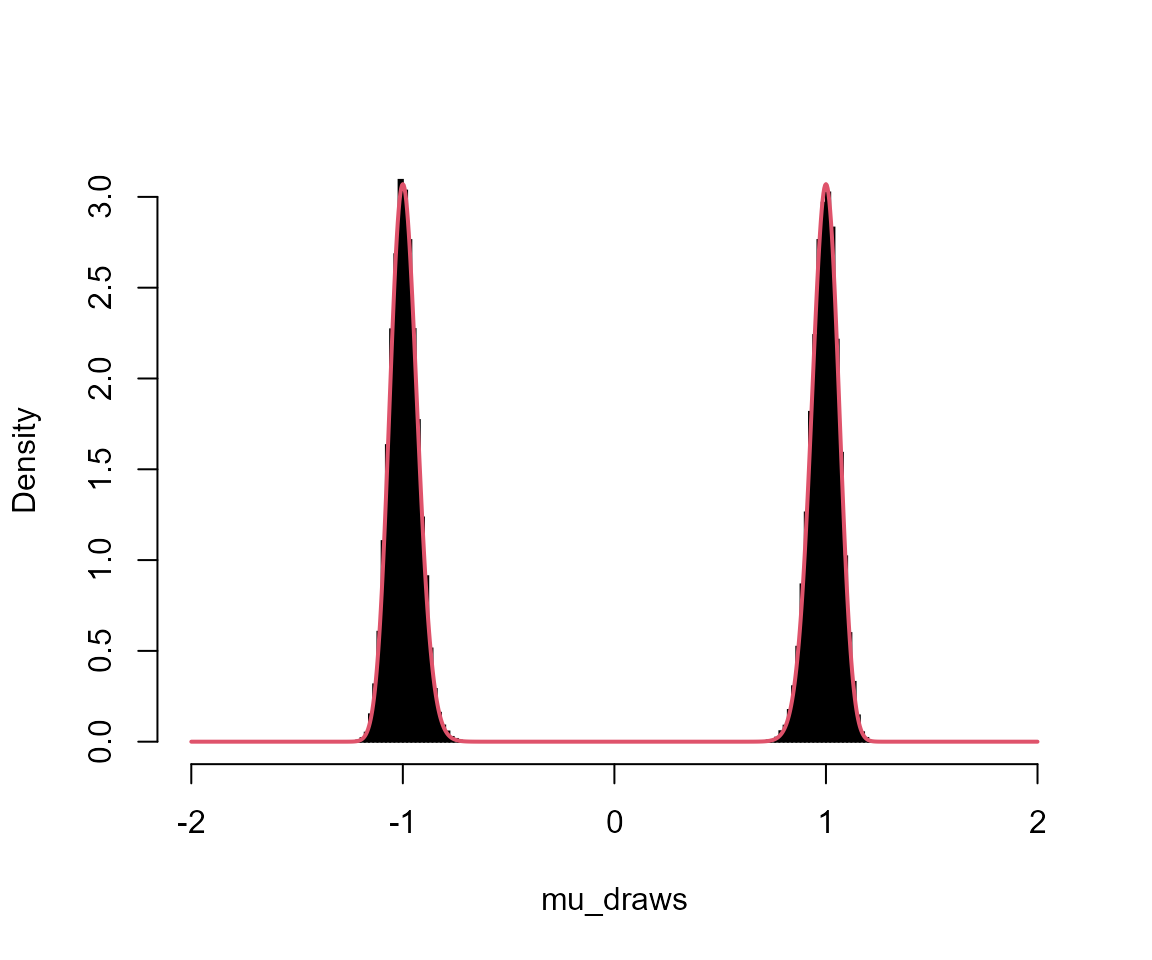
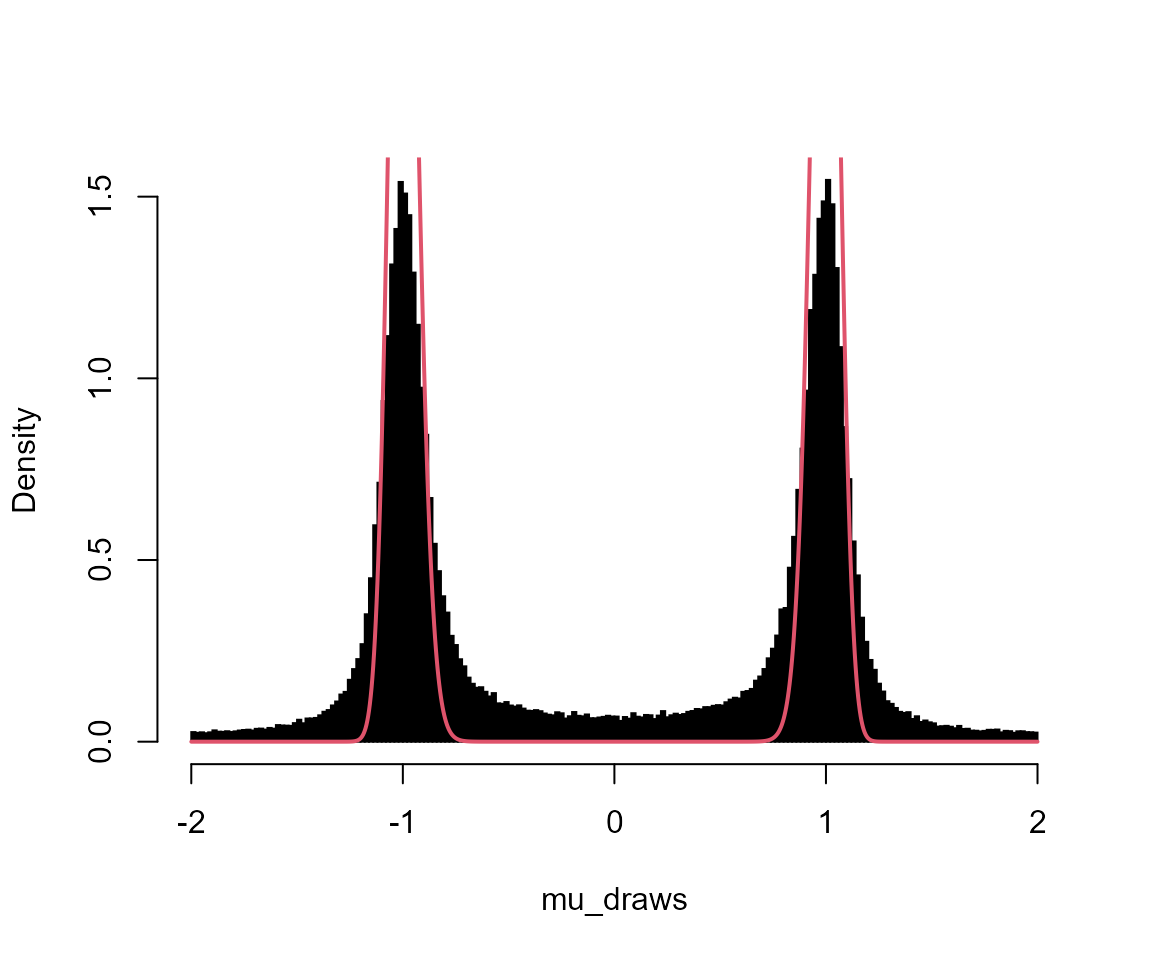
Reduce output size

diff --git a/docs/articles/example.html b/docs/articles/example.html
@@ -109,7 +109,7 @@
       <h1 data-toc-skip>Basic Example</h1>
                         <h4 class="author">Bob Verity and Pete Winskill</h4>
             
-            <h4 class="date">2021-09-22</h4>
+            <h4 class="date">2021-09-23</h4>
       
       <small class="dont-index">Source: <a href="https://github.com/mrc-ide/drjacoby/blob/master/vignettes/example.Rmd"><code>vignettes/example.Rmd</code></a></small>
       <div class="hidden name"><code>example.Rmd</code></div>
@@ -220,7 +220,7 @@
 <span id="cb5-17"><a href="#cb5-17" aria-hidden="true" tabindex="-1"></a>  <span class="sc">|</span>                                                                            </span>
 <span id="cb5-18"><a href="#cb5-18" aria-hidden="true" tabindex="-1"></a>  <span class="er">|======================================================================|</span> <span class="dv">100</span>%</span>
 <span id="cb5-19"><a href="#cb5-19" aria-hidden="true" tabindex="-1"></a><span class="co">#&gt; acceptance rate: 23.5%</span></span>
-<span id="cb5-20"><a href="#cb5-20" aria-hidden="true" tabindex="-1"></a><span class="co">#&gt; chain completed in 0.166990 seconds</span></span>
+<span id="cb5-20"><a href="#cb5-20" aria-hidden="true" tabindex="-1"></a><span class="co">#&gt; chain completed in 0.153467 seconds</span></span>
 <span id="cb5-21"><a href="#cb5-21" aria-hidden="true" tabindex="-1"></a><span class="co">#&gt; MCMC chain 2</span></span>
 <span id="cb5-22"><a href="#cb5-22" aria-hidden="true" tabindex="-1"></a><span class="co">#&gt; burn-in</span></span>
 <span id="cb5-23"><a href="#cb5-23" aria-hidden="true" tabindex="-1"></a><span class="co">#&gt; </span></span>
@@ -232,7 +232,7 @@
 <span id="cb5-29"><a href="#cb5-29" aria-hidden="true" tabindex="-1"></a>  <span class="sc">|</span>                                                                            </span>
 <span id="cb5-30"><a href="#cb5-30" aria-hidden="true" tabindex="-1"></a>  <span class="er">|======================================================================|</span> <span class="dv">100</span>%</span>
 <span id="cb5-31"><a href="#cb5-31" aria-hidden="true" tabindex="-1"></a><span class="co">#&gt; acceptance rate: 23%</span></span>
-<span id="cb5-32"><a href="#cb5-32" aria-hidden="true" tabindex="-1"></a><span class="co">#&gt; chain completed in 0.168075 seconds</span></span>
+<span id="cb5-32"><a href="#cb5-32" aria-hidden="true" tabindex="-1"></a><span class="co">#&gt; chain completed in 0.152674 seconds</span></span>
 <span id="cb5-33"><a href="#cb5-33" aria-hidden="true" tabindex="-1"></a><span class="co">#&gt; MCMC chain 3</span></span>
 <span id="cb5-34"><a href="#cb5-34" aria-hidden="true" tabindex="-1"></a><span class="co">#&gt; burn-in</span></span>
 <span id="cb5-35"><a href="#cb5-35" aria-hidden="true" tabindex="-1"></a><span class="co">#&gt; </span></span>
@@ -244,7 +244,7 @@
 <span id="cb5-41"><a href="#cb5-41" aria-hidden="true" tabindex="-1"></a>  <span class="sc">|</span>                                                                            </span>
 <span id="cb5-42"><a href="#cb5-42" aria-hidden="true" tabindex="-1"></a>  <span class="er">|======================================================================|</span> <span class="dv">100</span>%</span>
 <span id="cb5-43"><a href="#cb5-43" aria-hidden="true" tabindex="-1"></a><span class="co">#&gt; acceptance rate: 22.8%</span></span>
-<span id="cb5-44"><a href="#cb5-44" aria-hidden="true" tabindex="-1"></a><span class="co">#&gt; chain completed in 0.190014 seconds</span></span>
+<span id="cb5-44"><a href="#cb5-44" aria-hidden="true" tabindex="-1"></a><span class="co">#&gt; chain completed in 0.186954 seconds</span></span>
 <span id="cb5-45"><a href="#cb5-45" aria-hidden="true" tabindex="-1"></a><span class="co">#&gt; MCMC chain 4</span></span>
 <span id="cb5-46"><a href="#cb5-46" aria-hidden="true" tabindex="-1"></a><span class="co">#&gt; burn-in</span></span>
 <span id="cb5-47"><a href="#cb5-47" aria-hidden="true" tabindex="-1"></a><span class="co">#&gt; </span></span>
@@ -256,7 +256,7 @@
 <span id="cb5-53"><a href="#cb5-53" aria-hidden="true" tabindex="-1"></a>  <span class="sc">|</span>                                                                            </span>
 <span id="cb5-54"><a href="#cb5-54" aria-hidden="true" tabindex="-1"></a>  <span class="er">|======================================================================|</span> <span class="dv">100</span>%</span>
 <span id="cb5-55"><a href="#cb5-55" aria-hidden="true" tabindex="-1"></a><span class="co">#&gt; acceptance rate: 23.2%</span></span>
-<span id="cb5-56"><a href="#cb5-56" aria-hidden="true" tabindex="-1"></a><span class="co">#&gt; chain completed in 0.177236 seconds</span></span>
+<span id="cb5-56"><a href="#cb5-56" aria-hidden="true" tabindex="-1"></a><span class="co">#&gt; chain completed in 0.161008 seconds</span></span>
 <span id="cb5-57"><a href="#cb5-57" aria-hidden="true" tabindex="-1"></a><span class="co">#&gt; MCMC chain 5</span></span>
 <span id="cb5-58"><a href="#cb5-58" aria-hidden="true" tabindex="-1"></a><span class="co">#&gt; burn-in</span></span>
 <span id="cb5-59"><a href="#cb5-59" aria-hidden="true" tabindex="-1"></a><span class="co">#&gt; </span></span>
@@ -268,7 +268,7 @@
 <span id="cb5-65"><a href="#cb5-65" aria-hidden="true" tabindex="-1"></a>  <span class="sc">|</span>                                                                            </span>
 <span id="cb5-66"><a href="#cb5-66" aria-hidden="true" tabindex="-1"></a>  <span class="er">|======================================================================|</span> <span class="dv">100</span>%</span>
 <span id="cb5-67"><a href="#cb5-67" aria-hidden="true" tabindex="-1"></a><span class="co">#&gt; acceptance rate: 23.9%</span></span>
-<span id="cb5-68"><a href="#cb5-68" aria-hidden="true" tabindex="-1"></a><span class="co">#&gt; chain completed in 0.174571 seconds</span></span></code></pre></div>
+<span id="cb5-68"><a href="#cb5-68" aria-hidden="true" tabindex="-1"></a><span class="co">#&gt; chain completed in 0.155422 seconds</span></span></code></pre></div>
 <p>The output returned by the MCMC function has three parts: 1) an “output” dataframe containing raw posterior draws and other key elements at each iteration of the MCMC, 2) a “diagnostics” object containing useful summaries such as the effective sample size of each parameter, 3) a “parameters” object containing a record of the exact parameters used to run the MCMC. We can take a peek at the first of these outputs:</p>
 <div class="sourceCode" id="cb6"><pre class="downlit sourceCode r">
 <code class="sourceCode R"><span class="fu"><a href="https://rdrr.io/r/utils/head.html">head</a></span><span class="op">(</span><span class="va">mcmc</span><span class="op">$</span><span class="va">output</span><span class="op">)</span>
@@ -401,7 +401,7 @@ SEXP create_xptr(std::string function_name) {
 <span id="cb14-17"><a href="#cb14-17" aria-hidden="true" tabindex="-1"></a>  <span class="sc">|</span>                                                                            </span>
 <span id="cb14-18"><a href="#cb14-18" aria-hidden="true" tabindex="-1"></a>  <span class="er">|======================================================================|</span> <span class="dv">100</span>%</span>
 <span id="cb14-19"><a href="#cb14-19" aria-hidden="true" tabindex="-1"></a><span class="co">#&gt; acceptance rate: 24.2%</span></span>
-<span id="cb14-20"><a href="#cb14-20" aria-hidden="true" tabindex="-1"></a><span class="co">#&gt; chain completed in 0.008006 seconds</span></span>
+<span id="cb14-20"><a href="#cb14-20" aria-hidden="true" tabindex="-1"></a><span class="co">#&gt; chain completed in 0.006977 seconds</span></span>
 <span id="cb14-21"><a href="#cb14-21" aria-hidden="true" tabindex="-1"></a><span class="co">#&gt; MCMC chain 2</span></span>
 <span id="cb14-22"><a href="#cb14-22" aria-hidden="true" tabindex="-1"></a><span class="co">#&gt; burn-in</span></span>
 <span id="cb14-23"><a href="#cb14-23" aria-hidden="true" tabindex="-1"></a><span class="co">#&gt; </span></span>
@@ -413,7 +413,7 @@ SEXP create_xptr(std::string function_name) {
 <span id="cb14-29"><a href="#cb14-29" aria-hidden="true" tabindex="-1"></a>  <span class="sc">|</span>                                                                            </span>
 <span id="cb14-30"><a href="#cb14-30" aria-hidden="true" tabindex="-1"></a>  <span class="er">|======================================================================|</span> <span class="dv">100</span>%</span>
 <span id="cb14-31"><a href="#cb14-31" aria-hidden="true" tabindex="-1"></a><span class="co">#&gt; acceptance rate: 22.1%</span></span>
-<span id="cb14-32"><a href="#cb14-32" aria-hidden="true" tabindex="-1"></a><span class="co">#&gt; chain completed in 0.008965 seconds</span></span>
+<span id="cb14-32"><a href="#cb14-32" aria-hidden="true" tabindex="-1"></a><span class="co">#&gt; chain completed in 0.008257 seconds</span></span>
 <span id="cb14-33"><a href="#cb14-33" aria-hidden="true" tabindex="-1"></a><span class="co">#&gt; MCMC chain 3</span></span>
 <span id="cb14-34"><a href="#cb14-34" aria-hidden="true" tabindex="-1"></a><span class="co">#&gt; burn-in</span></span>
 <span id="cb14-35"><a href="#cb14-35" aria-hidden="true" tabindex="-1"></a><span class="co">#&gt; </span></span>
@@ -425,7 +425,7 @@ SEXP create_xptr(std::string function_name) {
 <span id="cb14-41"><a href="#cb14-41" aria-hidden="true" tabindex="-1"></a>  <span class="sc">|</span>                                                                            </span>
 <span id="cb14-42"><a href="#cb14-42" aria-hidden="true" tabindex="-1"></a>  <span class="er">|======================================================================|</span> <span class="dv">100</span>%</span>
 <span id="cb14-43"><a href="#cb14-43" aria-hidden="true" tabindex="-1"></a><span class="co">#&gt; acceptance rate: 23%</span></span>
-<span id="cb14-44"><a href="#cb14-44" aria-hidden="true" tabindex="-1"></a><span class="co">#&gt; chain completed in 0.007973 seconds</span></span>
+<span id="cb14-44"><a href="#cb14-44" aria-hidden="true" tabindex="-1"></a><span class="co">#&gt; chain completed in 0.007987 seconds</span></span>
 <span id="cb14-45"><a href="#cb14-45" aria-hidden="true" tabindex="-1"></a><span class="co">#&gt; MCMC chain 4</span></span>
 <span id="cb14-46"><a href="#cb14-46" aria-hidden="true" tabindex="-1"></a><span class="co">#&gt; burn-in</span></span>
 <span id="cb14-47"><a href="#cb14-47" aria-hidden="true" tabindex="-1"></a><span class="co">#&gt; </span></span>
@@ -437,7 +437,7 @@ SEXP create_xptr(std::string function_name) {
 <span id="cb14-53"><a href="#cb14-53" aria-hidden="true" tabindex="-1"></a>  <span class="sc">|</span>                                                                            </span>
 <span id="cb14-54"><a href="#cb14-54" aria-hidden="true" tabindex="-1"></a>  <span class="er">|======================================================================|</span> <span class="dv">100</span>%</span>
 <span id="cb14-55"><a href="#cb14-55" aria-hidden="true" tabindex="-1"></a><span class="co">#&gt; acceptance rate: 24%</span></span>
-<span id="cb14-56"><a href="#cb14-56" aria-hidden="true" tabindex="-1"></a><span class="co">#&gt; chain completed in 0.010351 seconds</span></span>
+<span id="cb14-56"><a href="#cb14-56" aria-hidden="true" tabindex="-1"></a><span class="co">#&gt; chain completed in 0.008281 seconds</span></span>
 <span id="cb14-57"><a href="#cb14-57" aria-hidden="true" tabindex="-1"></a><span class="co">#&gt; MCMC chain 5</span></span>
 <span id="cb14-58"><a href="#cb14-58" aria-hidden="true" tabindex="-1"></a><span class="co">#&gt; burn-in</span></span>
 <span id="cb14-59"><a href="#cb14-59" aria-hidden="true" tabindex="-1"></a><span class="co">#&gt; </span></span>
@@ -449,7 +449,7 @@ SEXP create_xptr(std::string function_name) {
 <span id="cb14-65"><a href="#cb14-65" aria-hidden="true" tabindex="-1"></a>  <span class="sc">|</span>                                                                            </span>
 <span id="cb14-66"><a href="#cb14-66" aria-hidden="true" tabindex="-1"></a>  <span class="er">|======================================================================|</span> <span class="dv">100</span>%</span>
 <span id="cb14-67"><a href="#cb14-67" aria-hidden="true" tabindex="-1"></a><span class="co">#&gt; acceptance rate: 23.6%</span></span>
-<span id="cb14-68"><a href="#cb14-68" aria-hidden="true" tabindex="-1"></a><span class="co">#&gt; chain completed in 0.007016 seconds</span></span></code></pre></div>
+<span id="cb14-68"><a href="#cb14-68" aria-hidden="true" tabindex="-1"></a><span class="co">#&gt; chain completed in 0.008113 seconds</span></span></code></pre></div>
 <p>You should see that this MCMC runs considerably faster than the previous version that used R functions. There is a short delay initially while the strings are compiled into functions, but this only occurs the first time a function is compiled. On the other hand, writing C++ functions in this way is more error-prone and difficult to debug than simple R functions. Hence, if efficiency is your goal then C++ versions of both the likelihood and prior should be used, whereas if ease of programming is more important then R functions might be a better choice.</p>
 <p>This was a very easy problem, and so required no fancy MCMC tricks. The <a href="https://mrc-ide.github.io/drjacoby/articles/metropolis_coupling.html">next vignette</a> demonstrates how <em>drjacoby</em> can be applied to a more challenging problem.</p>
 </div>

diff --git a/docs/articles/parallel.html b/docs/articles/parallel.html
@@ -109,7 +109,7 @@
       <h1 data-toc-skip>Running in Parallel</h1>
                         <h4 class="author">Bob Verity and Pete Winskill</h4>
             
-            <h4 class="date">2021-09-22</h4>
+            <h4 class="date">2021-09-23</h4>
       
       <small class="dont-index">Source: <a href="https://github.com/mrc-ide/drjacoby/blob/master/vignettes/parallel.Rmd"><code>vignettes/parallel.Rmd</code></a></small>
       <div class="hidden name"><code>parallel.Rmd</code></div>
@@ -165,7 +165,7 @@
 <span id="cb2-18"><a href="#cb2-18" aria-hidden="true" tabindex="-1"></a>  <span class="sc">|</span>                                                                            </span>
 <span id="cb2-19"><a href="#cb2-19" aria-hidden="true" tabindex="-1"></a>  <span class="er">|======================================================================|</span> <span class="dv">100</span>%</span>
 <span id="cb2-20"><a href="#cb2-20" aria-hidden="true" tabindex="-1"></a><span class="co">#&gt; acceptance rate: 23.4%</span></span>
-<span id="cb2-21"><a href="#cb2-21" aria-hidden="true" tabindex="-1"></a><span class="co">#&gt; chain completed in 0.074593 seconds</span></span>
+<span id="cb2-21"><a href="#cb2-21" aria-hidden="true" tabindex="-1"></a><span class="co">#&gt; chain completed in 0.073270 seconds</span></span>
 <span id="cb2-22"><a href="#cb2-22" aria-hidden="true" tabindex="-1"></a><span class="co">#&gt; MCMC chain 2</span></span>
 <span id="cb2-23"><a href="#cb2-23" aria-hidden="true" tabindex="-1"></a><span class="co">#&gt; burn-in</span></span>
 <span id="cb2-24"><a href="#cb2-24" aria-hidden="true" tabindex="-1"></a><span class="co">#&gt; </span></span>
@@ -177,7 +177,7 @@
 <span id="cb2-30"><a href="#cb2-30" aria-hidden="true" tabindex="-1"></a>  <span class="sc">|</span>                                                                            </span>
 <span id="cb2-31"><a href="#cb2-31" aria-hidden="true" tabindex="-1"></a>  <span class="er">|======================================================================|</span> <span class="dv">100</span>%</span>
 <span id="cb2-32"><a href="#cb2-32" aria-hidden="true" tabindex="-1"></a><span class="co">#&gt; acceptance rate: 23.5%</span></span>
-<span id="cb2-33"><a href="#cb2-33" aria-hidden="true" tabindex="-1"></a><span class="co">#&gt; chain completed in 0.079734 seconds</span></span></code></pre></div>
+<span id="cb2-33"><a href="#cb2-33" aria-hidden="true" tabindex="-1"></a><span class="co">#&gt; chain completed in 0.076277 seconds</span></span></code></pre></div>
 <p>When we look at our MCMC output (using the <code><a href="../reference/plot_par.html">plot_par()</a></code> function) we can see that there are 2 chains, each of which contains independent draws from the posterior. If we used multiple <a href="https://mrc-ide.github.io/drjacoby/articles/metropolis_coupling.html">temperature rungs</a> then these would also be duplicated over chains.</p>
 <div class="sourceCode" id="cb3"><pre class="downlit sourceCode r">
 <code class="sourceCode R"><span class="co"># summarise output</span>

diff --git a/docs/articles/checks_double_well.html b/docs/articles/checks_double_well.html
@@ -109,7 +109,7 @@
       <h1 data-toc-skip>Double well</h1>
                         <h4 class="author">Bob Verity and Pete Winskill</h4>
             
-            <h4 class="date">2021-09-22</h4>
+            <h4 class="date">2021-09-23</h4>
       
       <small class="dont-index">Source: <a href="https://github.com/mrc-ide/drjacoby/blob/master/vignettes/checks_double_well.Rmd"><code>vignettes/checks_double_well.Rmd</code></a></small>
       <div class="hidden name"><code>checks_double_well.Rmd</code></div>
@@ -193,7 +193,7 @@
   |                                                                            
   |======================================================================| 100%
 ## acceptance rate: 11.7%
-## chain completed in 4.622186 seconds</code></pre>
+## chain completed in 4.325595 seconds</code></pre>
 <div class="sourceCode" id="cb7"><pre class="downlit sourceCode r">
 <code class="sourceCode R"><span class="co"># trace plot</span>
 <span class="fu"><a href="../reference/plot_par.html">plot_par</a></span><span class="op">(</span><span class="va">mcmc</span>, show <span class="op">=</span> <span class="st">"mu"</span><span class="op">)</span></code></pre></div>
@@ -204,7 +204,7 @@
 <p><img src="checks_double_well_files/figure-html/unnamed-chunk-8-2.png" width="576"></p>
 <div class="sourceCode" id="cb9"><pre class="downlit sourceCode r">
 <code class="sourceCode R"><span class="co"># extract posterior draws</span>
-<span class="va">output_sub</span> <span class="op">&lt;-</span> <span class="fu"><a href="https://rdrr.io/r/base/subset.html">subset</a></span><span class="op">(</span><span class="va">mcmc</span><span class="op">$</span><span class="va">output</span>, <span class="va">phase</span> <span class="op">==</span> <span class="st">"sampling"</span> <span class="op">&amp;</span> <span class="va">rung</span> <span class="op">==</span> <span class="fl">11</span><span class="op">)</span>
+<span class="va">output_sub</span> <span class="op">&lt;-</span> <span class="fu"><a href="https://rdrr.io/r/base/subset.html">subset</a></span><span class="op">(</span><span class="va">mcmc</span><span class="op">$</span><span class="va">output</span>, <span class="va">phase</span> <span class="op">==</span> <span class="st">"sampling"</span><span class="op">)</span>
 <span class="va">mu_draws</span> <span class="op">&lt;-</span> <span class="va">output_sub</span><span class="op">$</span><span class="va">mu</span>
 
 <span class="co"># overlay plots</span>

diff --git a/docs/articles/metropolis_coupling.html b/docs/articles/metropolis_coupling.html
@@ -109,7 +109,7 @@
       <h1 data-toc-skip>Metropolis Coupling</h1>
                         <h4 class="author">Bob Verity and Pete Winskill</h4>
             
-            <h4 class="date">2021-09-22</h4>
+            <h4 class="date">2021-09-23</h4>
       
       <small class="dont-index">Source: <a href="https://github.com/mrc-ide/drjacoby/blob/master/vignettes/metropolis_coupling.Rmd"><code>vignettes/metropolis_coupling.Rmd</code></a></small>
       <div class="hidden name"><code>metropolis_coupling.Rmd</code></div>
@@ -238,7 +238,7 @@ SEXP create_xptr(std::string function_name) {
 <span id="cb5-19"><a href="#cb5-19" aria-hidden="true" tabindex="-1"></a>  <span class="sc">|</span>                                                                            </span>
 <span id="cb5-20"><a href="#cb5-20" aria-hidden="true" tabindex="-1"></a>  <span class="er">|======================================================================|</span> <span class="dv">100</span>%</span>
 <span id="cb5-21"><a href="#cb5-21" aria-hidden="true" tabindex="-1"></a><span class="co">#&gt; acceptance rate: 23.4%</span></span>
-<span id="cb5-22"><a href="#cb5-22" aria-hidden="true" tabindex="-1"></a><span class="co">#&gt; chain completed in 5.338691 seconds</span></span>
+<span id="cb5-22"><a href="#cb5-22" aria-hidden="true" tabindex="-1"></a><span class="co">#&gt; chain completed in 4.914993 seconds</span></span>
 <span id="cb5-23"><a href="#cb5-23" aria-hidden="true" tabindex="-1"></a></span>
 <span id="cb5-24"><a href="#cb5-24" aria-hidden="true" tabindex="-1"></a><span class="co"># create plot of alpha against beta</span></span>
 <span id="cb5-25"><a href="#cb5-25" aria-hidden="true" tabindex="-1"></a><span class="fu">plot_cor</span>(mcmc, <span class="st">"alpha"</span>, <span class="st">"beta"</span>) <span class="sc">+</span></span>

diff --git a/docs/reference/plot_autocorrelation.html b/docs/reference/plot_autocorrelation.html
@@ -156,14 +156,7 @@
     <p>Plot autocorrelation for specified parameters</p>
     </div>
 
-    <pre class="usage"><span class='fu'>plot_autocorrelation</span><span class='op'>(</span>
-  <span class='va'>x</span>,
-  lag <span class='op'>=</span> <span class='fl'>20</span>,
-  par <span class='op'>=</span> <span class='cn'>NULL</span>,
-  chain <span class='op'>=</span> <span class='fl'>1</span>,
-  phase <span class='op'>=</span> <span class='st'>"sampling"</span>,
-  rung <span class='op'>=</span> <span class='cn'>NULL</span>
-<span class='op'>)</span></pre>
+    <pre class="usage"><span class='fu'>plot_autocorrelation</span><span class='op'>(</span><span class='va'>x</span>, lag <span class='op'>=</span> <span class='fl'>20</span>, par <span class='op'>=</span> <span class='cn'>NULL</span>, chain <span class='op'>=</span> <span class='fl'>1</span>, phase <span class='op'>=</span> <span class='st'>"sampling"</span><span class='op'>)</span></pre>
 
     <h2 class="hasAnchor" id="arguments"><a class="anchor" href="#arguments"></a>Arguments</h2>
     <table class="ref-arguments">
@@ -188,11 +181,6 @@ plotted.</p></td>
     <tr>
       <th>phase</th>
       <td><p>which phase to plot. Must be either "burnin" or "sampling".</p></td>
-    </tr>
-    <tr>
-      <th>rung</th>
-      <td><p>which temperature rung to plot. If <code>NULL</code> then defaults to
-the cold rung.</p></td>
     </tr>
     </table>
 

diff --git a/docs/reference/plot_cor_mat.html b/docs/reference/plot_cor_mat.html
@@ -158,13 +158,7 @@
   from posterior draws.</p>
     </div>
 
-    <pre class="usage"><span class='fu'>plot_cor_mat</span><span class='op'>(</span>
-  <span class='va'>x</span>,
-  show <span class='op'>=</span> <span class='cn'>NULL</span>,
-  phase <span class='op'>=</span> <span class='st'>"sampling"</span>,
-  rung <span class='op'>=</span> <span class='cn'>NULL</span>,
-  param_names <span class='op'>=</span> <span class='cn'>NULL</span>
-<span class='op'>)</span></pre>
+    <pre class="usage"><span class='fu'>plot_cor_mat</span><span class='op'>(</span><span class='va'>x</span>, show <span class='op'>=</span> <span class='cn'>NULL</span>, phase <span class='op'>=</span> <span class='st'>"sampling"</span>, param_names <span class='op'>=</span> <span class='cn'>NULL</span><span class='op'>)</span></pre>
 
     <h2 class="hasAnchor" id="arguments"><a class="anchor" href="#arguments"></a>Arguments</h2>
     <table class="ref-arguments">
@@ -180,10 +174,6 @@
     <tr>
       <th>phase</th>
       <td><p>which phase to plot. Must be either "burnin" or "sampling".</p></td>
-    </tr>
-    <tr>
-      <th>rung</th>
-      <td><p>Which rung to plot.</p></td>
     </tr>
     <tr>
       <th>param_names</th>

diff --git a/docs/articles/checks_multilevel_blocks.html b/docs/articles/checks_multilevel_blocks.html
@@ -109,7 +109,7 @@
       <h1 data-toc-skip>Multilevel example with blocks</h1>
                         <h4 class="author">Bob Verity and Pete Winskill</h4>
             
-            <h4 class="date">2021-09-22</h4>
+            <h4 class="date">2021-09-23</h4>
       
       <small class="dont-index">Source: <a href="https://github.com/mrc-ide/drjacoby/blob/master/vignettes/checks_multilevel_blocks.Rmd"><code>vignettes/checks_multilevel_blocks.Rmd</code></a></small>
       <div class="hidden name"><code>checks_multilevel_blocks.Rmd</code></div>

diff --git a/docs/articles/checks_normal_model.html b/docs/articles/checks_normal_model.html
@@ -109,7 +109,7 @@
       <h1 data-toc-skip>Normal model</h1>
                         <h4 class="author">Bob Verity and Pete Winskill</h4>
             
-            <h4 class="date">2021-09-22</h4>
+            <h4 class="date">2021-09-23</h4>
       
       <small class="dont-index">Source: <a href="https://github.com/mrc-ide/drjacoby/blob/master/vignettes/checks_normal_model.Rmd"><code>vignettes/checks_normal_model.Rmd</code></a></small>
       <div class="hidden name"><code>checks_normal_model.Rmd</code></div>

diff --git a/docs/articles/checks_return_prior.html b/docs/articles/checks_return_prior.html
@@ -109,7 +109,7 @@
       <h1 data-toc-skip>Return prior</h1>
                         <h4 class="author">Bob Verity and Pete Winskill</h4>
             
-            <h4 class="date">2021-09-22</h4>
+            <h4 class="date">2021-09-23</h4>
       
       <small class="dont-index">Source: <a href="https://github.com/mrc-ide/drjacoby/blob/master/vignettes/checks_return_prior.Rmd"><code>vignettes/checks_return_prior.Rmd</code></a></small>
       <div class="hidden name"><code>checks_return_prior.Rmd</code></div>

diff --git a/docs/articles/installation.html b/docs/articles/installation.html
@@ -109,7 +109,7 @@
       <h1 data-toc-skip>Installing drjacoby</h1>
                         <h4 class="author">Bob Verity and Pete Winskill</h4>
             
-            <h4 class="date">2021-09-22</h4>
+            <h4 class="date">2021-09-23</h4>
       
       <small class="dont-index">Source: <a href="https://github.com/mrc-ide/drjacoby/blob/master/vignettes/installation.Rmd"><code>vignettes/installation.Rmd</code></a></small>
       <div class="hidden name"><code>installation.Rmd</code></div>

diff --git a/docs/articles/blocks.html b/docs/articles/blocks.html
@@ -109,7 +109,7 @@
       <h1 data-toc-skip>Using Likelihood Blocks</h1>
                         <h4 class="author">Bob Verity and Pete Winskill</h4>
             
-            <h4 class="date">2021-09-22</h4>
+            <h4 class="date">2021-09-23</h4>
       
       <small class="dont-index">Source: <a href="https://github.com/mrc-ide/drjacoby/blob/master/vignettes/blocks.Rmd"><code>vignettes/blocks.Rmd</code></a></small>
       <div class="hidden name"><code>blocks.Rmd</code></div>
